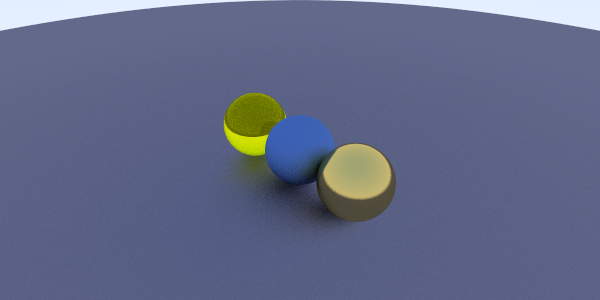
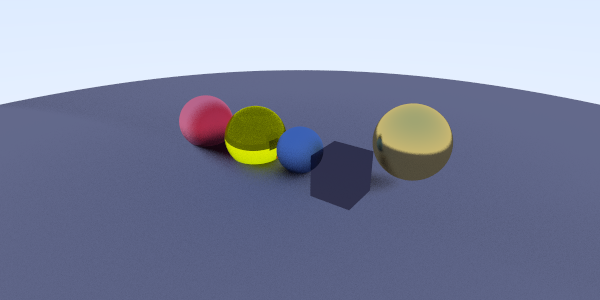
box material

diff --git a/src/index.ts b/src/index.ts
@@ -4,15 +4,19 @@ import { Ray } from './models/ray.model';
 import { VectorMath } from './utilities/vector-math';
 import { HitRecord } from './models/hit-record.model';
 import { Hitable } from './models/hitable.interface';
-import { Sphere } from './models/sphere.model';
 import { HitableList } from './models/hitable-list.model';
 import { Camera } from './models/camera.model';
 import { Lambertian } from './materials/lambertian.model';
 import { Metal } from './materials/metal.model';
 import { Dialectric } from './materials/dialectric.model';
+import { Sphere } from './solids/sphere.model';
+import { Box } from './solids/box.model';
 const vm = new VectorMath();
 
 (async () => {
+
+  console.log("starting");
+  console.log(new Date().toLocaleTimeString())
   const image = sharp.default({
     create: {
       width: 600,
@@ -28,7 +32,7 @@ const vm = new VectorMath();
   const ns = 100;
   if (meta.width && meta.height && meta.channels) {
 
-    const lookFrom = new Vector(3, 3, 2);
+    const lookFrom = new Vector(5, 4, 6);
     const lookAt = new Vector(0, 0, -1);
     const ap = 2;
     const dist2Focus = vm.subtract(lookFrom, lookAt).length;
@@ -37,14 +41,18 @@ const vm = new VectorMath();
       lookFrom,
       lookAt,
       new Vector(0, 1, 0),
-      45, meta.width / meta.height, ap, dist2Focus);
+      44, meta.width / meta.height, ap, dist2Focus);
 
     const HObjects: Hitable[] = [];
-    HObjects.push(new Sphere(new Vector(0, 0, -1), 0.5, new Lambertian(new Vector(0.1, 0.2, 0.5))));
+
+    HObjects.push(new Sphere(new Vector(0, 0, -1), 0.6, new Lambertian(new Vector(0.1, 0.2, 0.5))));
     HObjects.push(new Sphere(new Vector(0, -100.5, -1), 100, new Lambertian(new Vector(0.2, 0.2, 0.3))));
-    HObjects.push(new Sphere(new Vector(1, 0, -1), 0.5, new Metal(new Vector(0.8, 0.6, 0.2), 0.1)));
-    HObjects.push(new Sphere(new Vector(-1, 0, -1), 0.5, new Dialectric(1.5)));
-    HObjects.push(new Sphere(new Vector(-1, 0, -1), 0.45, new Dialectric(1.5)));
+    HObjects.push(new Sphere(new Vector(2.5, 0.5, -2), 0.9, new Metal(new Vector(0.8, 0.6, 0.2), 0.1)));
+
+
+    HObjects.push(new Sphere(new Vector(-1.5, 0, -1), 0.85, new Dialectric(1.6)));
+    HObjects.push(new Sphere(new Vector(-3.5, 0, -1), 0.80, new Lambertian(new Vector(0.8, 0.2, 0.3))));
+    HObjects.push(new Box(new Vector(1, -0.5, -1), new Vector(2, 0.51, 0), new Lambertian(new Vector(0.2, 0.2, 0.3))));
 
     const world: Hitable = new HitableList(HObjects);
 
@@ -78,6 +86,9 @@ const vm = new VectorMath();
 
     await sharp.default(data, { raw: { width: meta.width, height: meta.height, channels: meta.channels } }).rotate(180).flop().toFile('test.png')
 
+    console.log("");
+    console.log("ended");
+    console.log(new Date().toLocaleTimeString())
   }
 })();
 

diff --git a/src/solids/box.model.ts b/src/solids/box.model.ts
@@ -1,0 +1,72 @@
+import { Hitable } from "../models/hitable.interface";
+import { Ray } from "../models/ray.model";
+import { HitRecord } from "../models/hit-record.model";
+import { Vector } from "../models/vector.model";
+import { VectorMath } from "../utilities/vector-math";
+import { Material } from "../materials/material.interface";
+
+export class Box implements Hitable {
+    rec: HitRecord | undefined;
+    bounds: Vector[] = [];
+    material: Material;
+    sign: boolean[] = [];
+
+    constructor(vmin: Vector, vmax: Vector, material: Material) {
+        this.bounds.push(vmin);
+        this.bounds.push(vmax);
+        this.material = material;
+    }
+
+    hit(ray: Ray, tMin: number, tMax: Number, rec: HitRecord): boolean {
+        const invdir: Vector = ray.inverse;
+
+        this.sign.push(invdir.x < 0);
+        this.sign.push(invdir.y < 0);
+        this.sign.push(invdir.z < 0);
+
+        const firstSign = this.sign[0] ? 1 : 0;
+        const secondSign = this.sign[1] ? 1 : 0;
+        const thirdSign = this.sign[2] ? 1 : 0;
+
+        let tmin = (this.bounds[firstSign].x - ray.origin.x) * invdir.x;
+        let tmax = (this.bounds[1 - firstSign].x - ray.origin.x) * invdir.x;
+        const tymin = (this.bounds[secondSign].y - ray.origin.y) * invdir.y;
+        const tymax = (this.bounds[1 - secondSign].y - ray.origin.y) * invdir.y;
+
+        if ((tmin > tymax) || (tymin > tmax)) {
+            return false;
+        }
+        if (tymin > tmin) {
+            tmin = tymin;
+        }
+        if (tymax < tmax) {
+            tmax = tymax;
+        }
+
+        const tzmin = (this.bounds[thirdSign].z - ray.origin.z) * invdir.z;
+        const tzmax = (this.bounds[1 - thirdSign].z - ray.origin.z) * invdir.z;
+
+        if ((tmin > tzmax) || (tzmin > tmax)) {
+            return false;
+        }
+        if (tzmin > tmin) {
+            tmin = tzmin;
+        }
+        if (tzmax < tmax) {
+            tmax = tzmax;
+        }
+
+
+        if (rec.t < 0) {
+            rec.t = tmax;
+            if (rec.t < 0) return false;
+        }
+
+        rec.p = ray.pointAt(rec.t);
+        rec.normal = ray.direction;
+        this.rec = rec;
+        this.rec.material = this.material;
+
+        return true;
+    }
+}

diff --git a/src/solids/sphere.model.ts b/src/solids/sphere.model.ts
@@ -1,7 +1,7 @@
-import { Hitable } from "./hitable.interface";
-import { Ray } from "./ray.model";
-import { HitRecord } from "./hit-record.model";
-import { Vector } from "./vector.model";
+import { Hitable } from "../models/hitable.interface";
+import { Ray } from "../models/ray.model";
+import { HitRecord } from "../models/hit-record.model";
+import { Vector } from "../models/vector.model";
 import { VectorMath } from "../utilities/vector-math";
 import { Material } from "../materials/material.interface";
 

diff --git a/src/models/vector.model.ts b/src/models/vector.model.ts
@@ -11,12 +11,24 @@ export class Vector {
         return this.e[0];
     }
 
+    set x(x: number) {
+        this.e[0] = x;
+    }
+
     get y() {
         return this.e[1];
     }
 
+    set y(y: number) {
+        this.e[1] = y;
+    }
+
     get z() {
         return this.e[2];
+    }
+
+    set z(z: number) {
+        this.e[2] = z;
     }
 
     get r() {

diff --git a/src/models/ray.model.ts b/src/models/ray.model.ts
@@ -18,6 +18,13 @@ export class Ray {
         return this.v2;
     }
 
+    get inverse() {
+        return new Vector(
+            1 / this.direction.x,
+            1 / this.direction.y,
+            1 / this.direction.z);
+    }
+
     pointAt(t: number): Vector {
         const vm = new VectorMath();
         const scale = vm.scale(this.v2, t);

diff --git a/src/models/camera.model.ts b/src/models/camera.model.ts
@@ -39,9 +39,6 @@ export class Camera {
 
         this.hor = vm.multiplyWithNumber(this.u, 2 * halfWidth * focusDist);
         this.ver = vm.multiplyWithNumber(this.v, 2 * halfHeight * focusDist);
-
-        // this.llc = new Vector(-2, -1, -1);
-        console.log("camera ok");
     }
 
     ray(s: number, t: number) {
